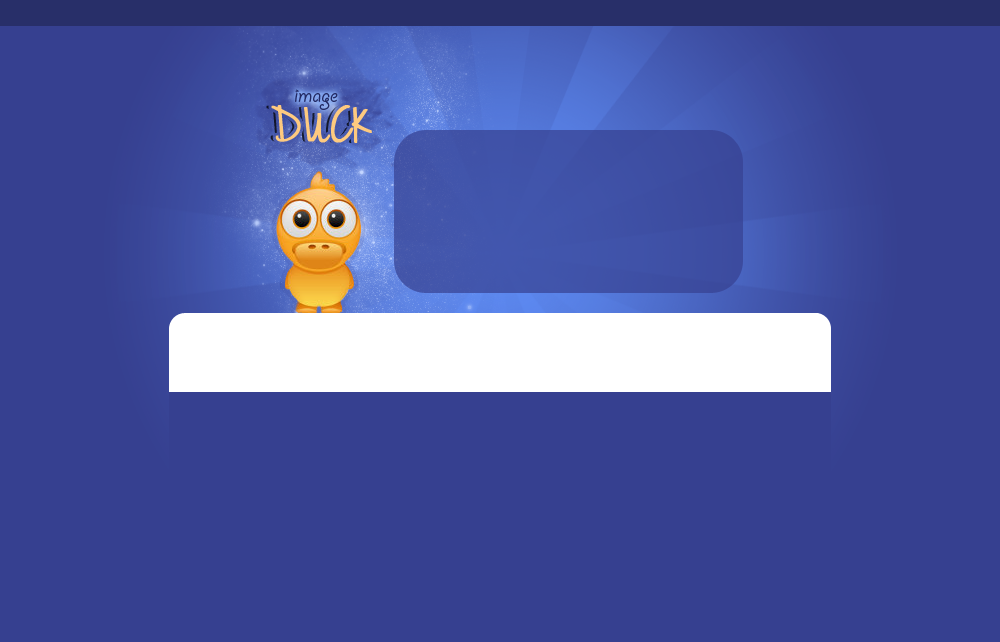
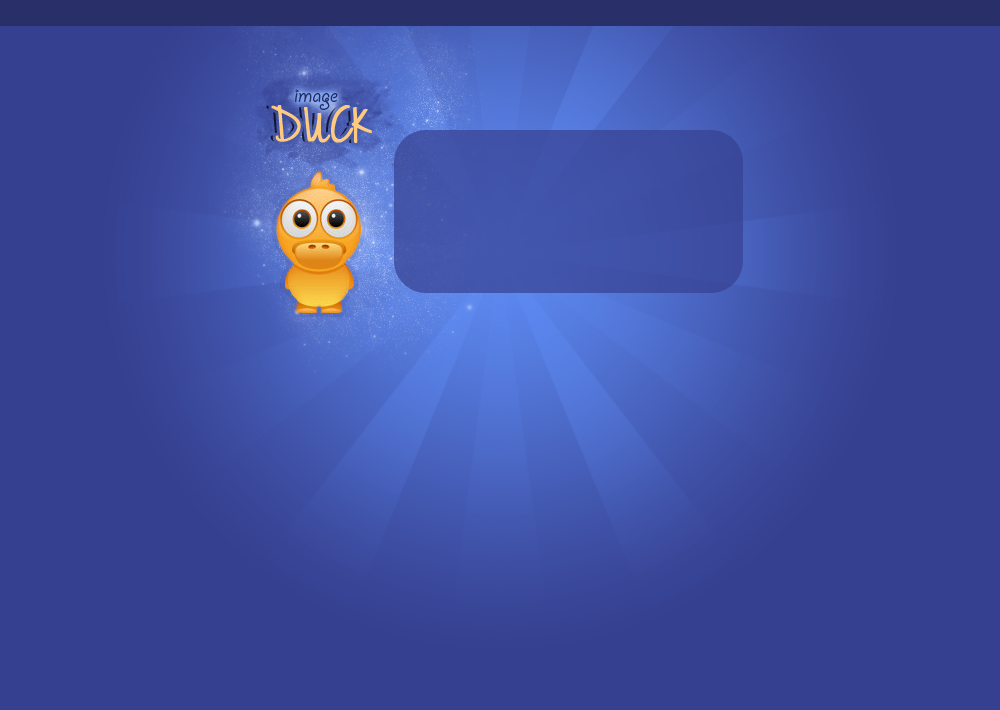
updated with new layout

Changed region(s): [[0.155, 0.0935, 0.837, 0.7788], [0.217, 0.0312, 0.775, 0.0623]]

diff --git a/app/assets/stylesheets/style2.css b/app/assets/stylesheets/style2.css
@@ -23,7 +23,7 @@ html, body {
 }
 
 body {
-	background:		#364090 url(BG.png) no-repeat;	
+	background:		#364090 url(BGsmall.png) no-repeat;	
 	background-position: top center;
 	font: 			normal 9pt/15pt Gill Sans;
 	color: 			#aabcff;
@@ -76,6 +76,7 @@ orange {
 }
 
 
+
 form {
 	border: none;
 
@@ -91,7 +92,6 @@ form input {
 	color: #FFFFFF;
 	outline: hidden;
 }
-
 
 
 /*------------------------------------------------------------------------*/
@@ -149,7 +149,7 @@ div#clear {
 #welcome {
 	width: 298px;
 	height: 152px;
-	margin: 125px 0 0 250px;
+	margin: 33px 0 0 254px;
 	text-align: center;
 	clear: both;
 	line-height: 16px;
@@ -157,14 +157,27 @@ div#clear {
 
 #content {
 	background:		#ffffff;
-	margin:			0px;
-	padding: 		40px;
+	margin:			100px 0 0 0;
+	padding: 		40px 0px;
 	color:			#5e5f63;
-	min-height:		82px;
 	font-size:		10pt;
 	-moz-border-radius: 40px;
 	-webkit-border-radius: 40px;
 	border-radius:	40px;
+}
+
+#columns {
+	width:		620px;
+	margin:		0px auto;
+	min-height:	350px;
+	padding: 	0 0 10px 0;
+	text-align:	center;
+}
+
+.col1, .col2 {
+	width:		300px;
+	float:		left;
+	margin: 	0 5px;
 }
 	
 #footer {

diff --git a/app/assets/stylesheets/custom.css.scss b/app/assets/stylesheets/custom.css.scss
@@ -2,6 +2,7 @@
 
 /* mixins, variables, etc. */
 
+/*
 $grayMediumLight: #eaeaea;
 
 
@@ -10,9 +11,11 @@ $grayMediumLight: #eaeaea;
   -webkit-box-sizing: border-box; 
   box-sizing: border-box;
 }
+*/
 
 /* miscellaneous */
 
+/*
 .debug_dump {
   clear: both;
   float: left;
@@ -20,10 +23,11 @@ $grayMediumLight: #eaeaea;
   margin-top: 45px;
   @include box_sizing;
 }
-
+*/
 
 /* universal */
 
+/*
 html {
   overflow-y: scroll;
 }
@@ -47,8 +51,12 @@ textarea {
   }
 }
 
+
+*/
+
 /* typography */
 
+/*
 h1, h2, h3, h4, h5, h6 {
   line-height: 1;
 }
@@ -73,4 +81,6 @@ p {
   font-size: 1.1em;
   line-height: 1.7em;
 }
+
+*/
 
